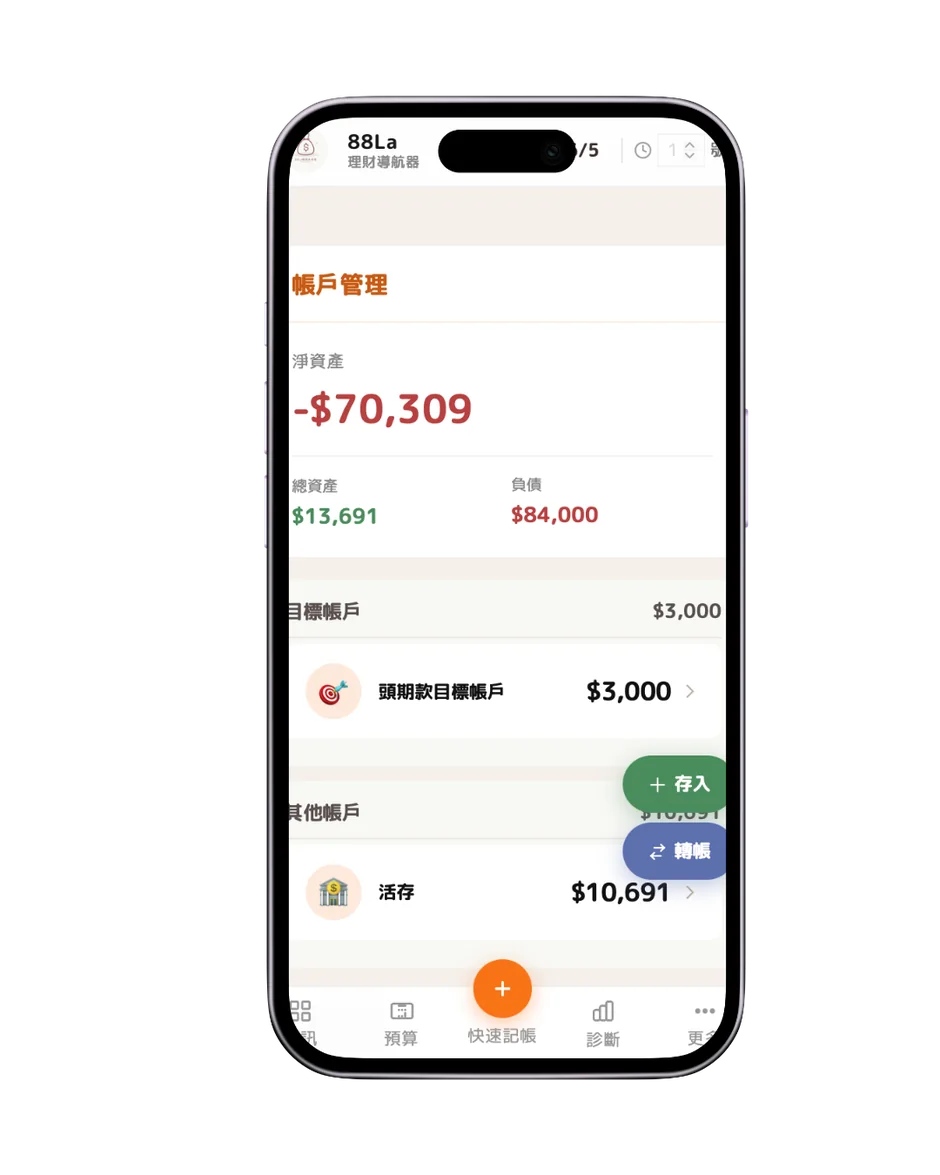
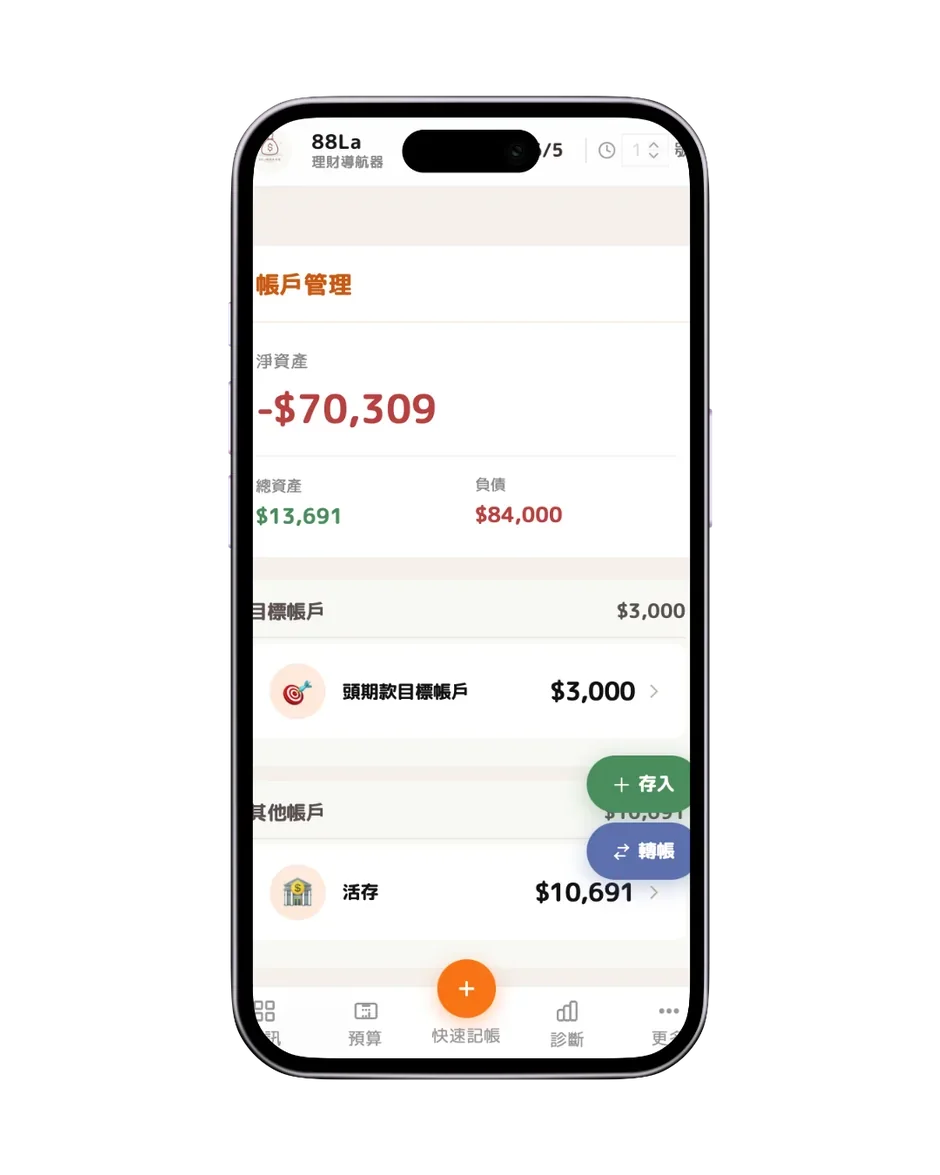
手機截圖置中、密碼卡與分享按鈕加距離
手機截圖
- 十張 App 截圖的內容都偏右 36px（畫布 940 寬，內容中心在 506 而非 470），
  所以首頁、/app、/guide 的手機框看起來都沒有置中
- 把內容平移回正中央，畫布尺寸不變，版面的 max-width 與比例都不用改
- 驗算後十張的水平偏移都在 1px 以內

間距
- 會員密碼卡與下方「複製連結／分享至 LINE」原本是 0px，補上 28-40px
- 文章內文與「相關內容」之間也一併補上

置底 CTA 條
- 上線前不放模糊價格：欄位太窄會斷成兩行看起來像壞掉，
  改成直接顯示「9/10 正式上線」，上線後才換回「NT$ 199 / 月起」

Claude-Session: https://claude.ai/code/session_011GiEmHVo2JLyZF5V5qRnJC

Changed region(s): [[0.2468, 0.0613, 0.8021, 0.9191], [0.4936, 0.3983, 0.6479, 0.4596], [0.5553, 0.0919, 0.6479, 0.1532]]

diff --git a/src/App.jsx b/src/App.jsx
@@ -1592,7 +1592,7 @@ button:focus-visible{border-radius:4px;}
 .nx-page .article-content ul,.nx-page .article-content ol{margin-bottom:22px;padding-left:24px;}
 .nx-page .article-content li{margin-bottom:8px;line-height:1.95;}
 
-.ar-rel{margin-bottom:clamp(28px,3.6vw,40px);}
+.ar-rel{margin-top:clamp(28px,3.6vw,40px);margin-bottom:clamp(28px,3.6vw,40px);}
 .ar-rel>p{margin-bottom:14px;font-size:13px;font-weight:700;letter-spacing:.1em;color:var(--nx-t3);}
 .ar-rel-item{display:flex;align-items:center;gap:16px;width:100%;padding:16px 20px;margin-bottom:10px;border:1px solid var(--nx-bd);border-radius:14px;background:#fff;font-family:inherit;text-align:left;cursor:pointer;transition:border-color .2s var(--nx-ease),transform .12s var(--nx-ease);}
 .ar-rel-item:hover{border-color:var(--nx-o);}
@@ -1602,7 +1602,7 @@ button:focus-visible{border-radius:4px;}
 .ar-rel-label{margin-top:2px;font-size:15px;font-weight:600;color:var(--nx-t1);}
 .ar-rel-meta{margin-top:2px;font-size:13px;color:var(--nx-t3);}
 
-.ar-share{display:flex;gap:12px;flex-wrap:wrap;padding-bottom:clamp(28px,3.6vw,40px);border-bottom:1px dotted var(--nx-t5);}
+.ar-share{display:flex;gap:12px;flex-wrap:wrap;margin-top:clamp(28px,3.6vw,40px);padding-bottom:clamp(28px,3.6vw,40px);border-bottom:1px dotted var(--nx-t5);}
 .ar-community{display:flex;align-items:center;justify-content:space-between;gap:20px;flex-wrap:wrap;margin-block:clamp(28px,3.6vw,40px);padding:clamp(22px,2.6vw,28px);border-radius:16px;background:var(--nx-os);}
 .ar-community strong{display:block;margin-bottom:6px;font-size:17px;font-weight:700;color:var(--nx-ost);}
 .ar-community em{font-style:normal;font-size:14px;color:var(--nx-ol);}
@@ -3281,7 +3281,7 @@ function Home({ setPage, isAdmin, trustStats, setTrustStats }) {
       <div className="nx-sticky">
         <div>
           <b>88La財務導航</b>
-          <span><Price>{NT_MONTHLY}</Price> / 月起</span>
+          <span>{isAppLaunched() ? `${NT_MONTHLY} / 月起` : "9/10 正式上線"}</span>
         </div>
         <a className="nx-btn nx-btn-pri nx-btn-sm" {...appCtaProps("home-sticky")}>開始使用</a>
       </div>
@@ -6033,7 +6033,7 @@ function AppPage({ appContent, setAppContent, isAdmin, setPage, demoStory, setDe
       <div className="nx-sticky">
         <div>
           <b>88La財務導航</b>
-          <span><Price>{NT_MONTHLY}</Price> / 月起</span>
+          <span>{isAppLaunched() ? `${NT_MONTHLY} / 月起` : "9/10 正式上線"}</span>
         </div>
         <a className="nx-btn nx-btn-pri nx-btn-sm" {...appCtaProps("app-sticky")}>開始使用</a>
       </div>
